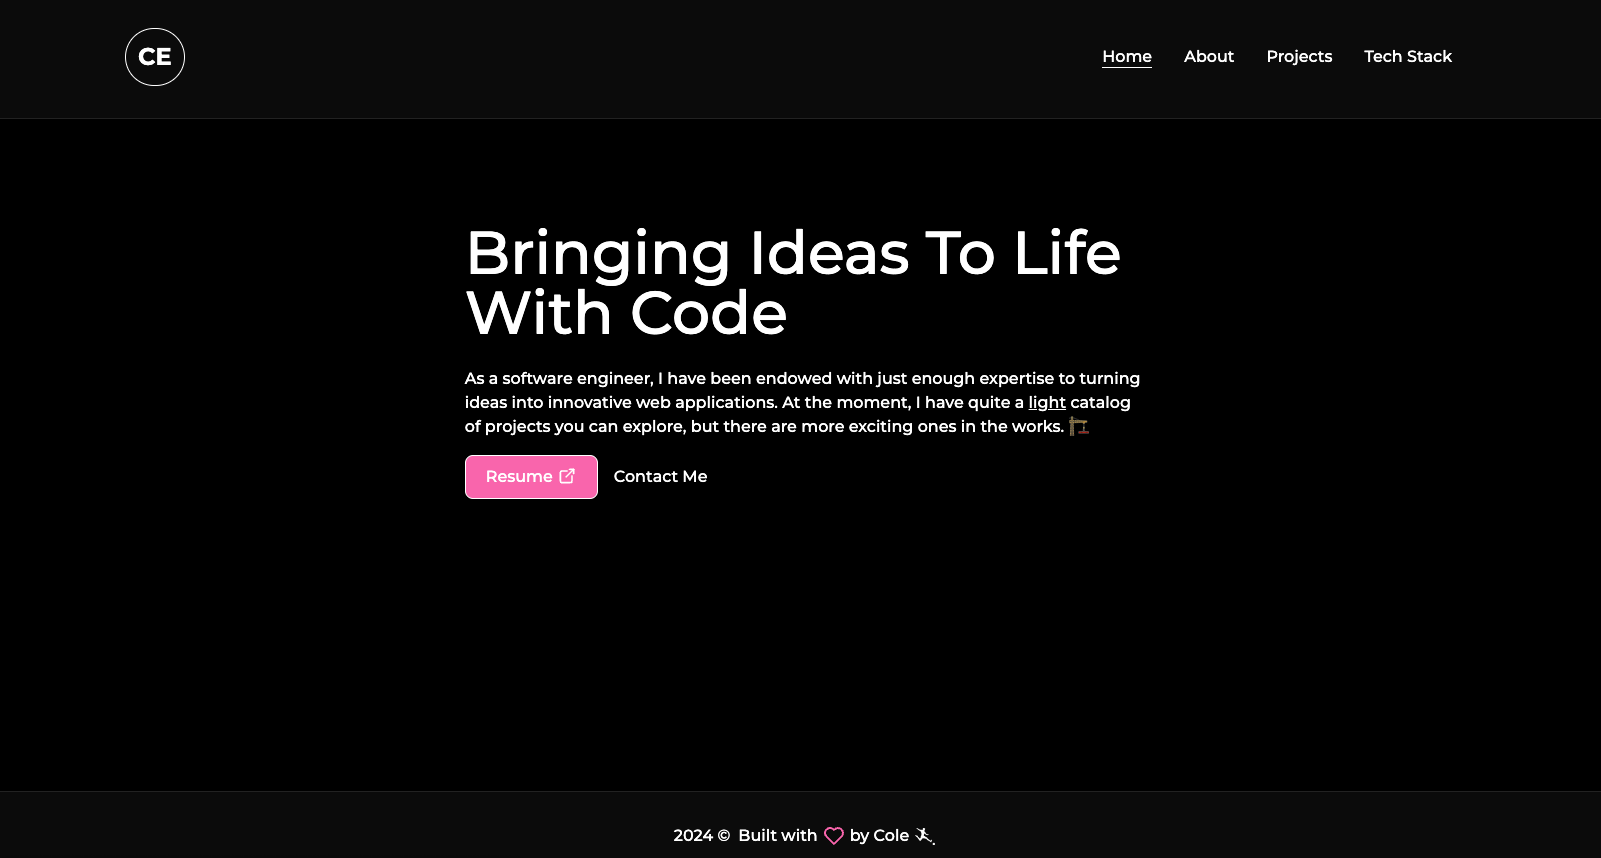
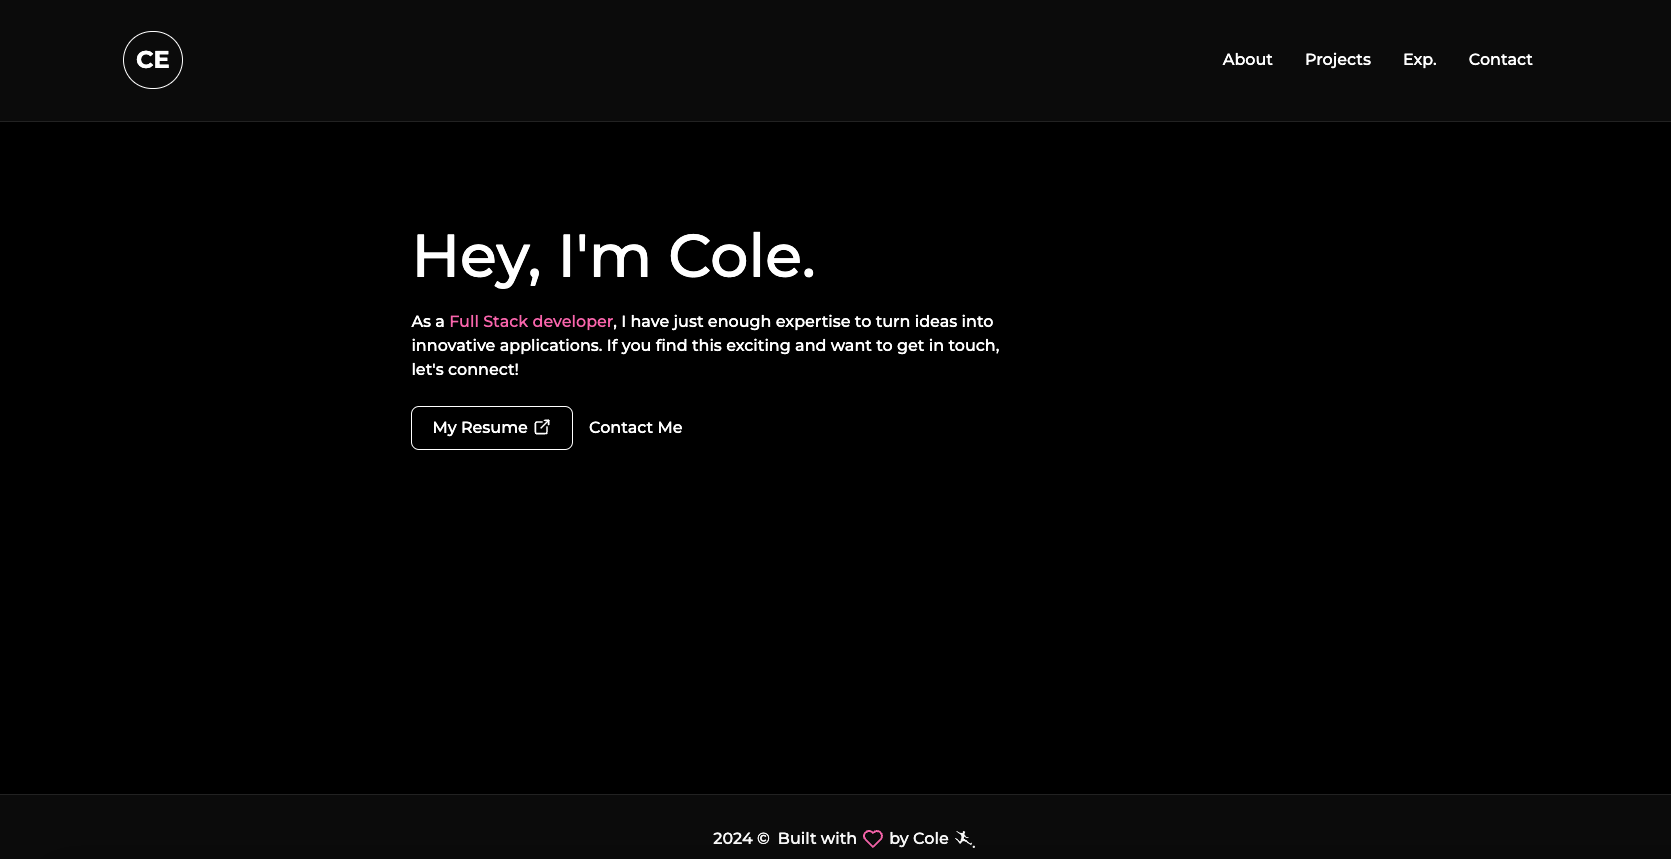
make pages responsive

diff --git a/src/app/projects/page.tsx b/src/app/projects/page.tsx
@@ -31,27 +31,29 @@ type ProjectType = {
 }
 
 const ProjectItem = ({ name, image, link, description, stack, imageAlt }: ProjectType) => {
-  const borderLineStyle =
+  const bottomBorderAnimationClass =
     "after:absolute after:bottom-0 after:left-0 after:h-1 after:w-full after:scale-0 after:rounded-bl-lg after:rounded-br-lg after:bg-white after:transition-all after:duration-300 after:ease-out after:content-[''] hover:after:scale-100"
   return (
     <article
-      className={`group relative z-10 flex flex-col items-center rounded-lg border border-transparent px-5 py-4 transition-colors  hover:border-gray-300 hover:bg-gray-100 hover:dark:border-neutral-700 hover:dark:bg-neutral-800/30 ${borderLineStyle}`}
+      className={`group relative z-10 flex flex-col items-center rounded-lg border border-transparent px-5 py-4 transition-colors hover:border-gray-300 hover:bg-gray-100 hover:dark:border-neutral-700 hover:dark:bg-neutral-800/30 ${bottomBorderAnimationClass}`}
     >
-      <div className={"h-[160px] w-[280px]"}>
+      <div className={"h-[160px] w-[280px] border border-gray-300 lg:mr-auto dark:border-neutral-800"}>
         <Image className={"h-full w-full"} src={image} alt={imageAlt} />
       </div>
-      <h2 className="my-3 w-full font-semibold capitalize lg:text-left">{name}</h2>
-      <div className={"mb-3 max-w-[30ch]"}>
-        <p className="text-balance text-sm opacity-50">{description}</p>
-        <p className={"mt-2 font-bold"}>
+      <h2 className="my-3 w-full text-center font-semibold capitalize lg:text-left">{name}</h2>
+      <div className={"mb-6 flex w-full flex-col items-center lg:items-start"}>
+        <p className="line-clamp-3 max-w-[30ch] text-ellipsis text-balance text-sm opacity-50">{description}</p>
+        <p className={"mt-2 max-w-[30ch] text-balance font-bold"}>
           Stack: <span className={"text-sm italic text-white/65"}>{stack}</span>
         </p>
       </div>
-      <ButtonLink link={link} className="mb-4 mt-auto w-fit items-center gap-1 text-base font-semibold transition-all duration-150 ease-linear hover:px-6 lg:text-left" target="_blank" rel="noopener noreferrer">
-        <div>
-          Explore <ArrowBigRightIcon className="inline-block transition-transform group-hover:translate-x-1 motion-reduce:transform-none" size={20} />
-        </div>
-      </ButtonLink>
+      <div className={"mb-4 mt-auto flex justify-center lg:w-full lg:justify-start"}>
+        <ButtonLink link={link} className="w-fit items-center gap-1 text-base font-semibold transition-all duration-150 ease-linear hover:px-6 lg:text-left" target="_blank" rel="noopener noreferrer">
+          <div>
+            Explore <ArrowBigRightIcon className="inline-block transition-transform group-hover:translate-x-1 motion-reduce:transform-none" size={20} />
+          </div>
+        </ButtonLink>
+      </div>
     </article>
   )
 }
@@ -62,19 +64,10 @@ const Projects = (props: Props) => {
       id: "delight",
       name: "Delight",
       description: "I contributed in a team of brilliant minds to build a Data Product Management SaaS application.",
-      stack: "Vue, Typescript, TailwindCSS + PrimeVue, Fastify, PostgreSQL.",
+      stack: "Vue, Typescript, TailwindCSS, PrimeVue, Fastify, PostgreSQL.",
       image: delight,
       imageAlt: "The details page of a data product in a SaaS application by www.mindfuel.ai called 'Delight'.",
       link: "https://mindfuel.ai/solution/delight",
-    },
-    {
-      id: "personal-portfolio",
-      name: "Portfolio",
-      description: "A personal portfolio built using Next.js",
-      stack: "React, Next.js, Typescript",
-      image: portfolioHomePage,
-      imageAlt: "portfolio home page",
-      link: "https://github.com/colenocks/portfolio_2",
     },
     {
       id: "hoops",
@@ -88,11 +81,20 @@ const Projects = (props: Props) => {
     {
       id: "cyob",
       name: "Cycle of benefits",
-      description: "A waste management crowdsourcing platform of environmentally related projects publicly available for interested persons to work on and gain rewards.",
+      description: "A waste management crowdsourcing platform of environment based projects publicly available for interested persons to work on and gain rewards.",
       stack: "HTML, CSS, JavaScript, Node, Express, Amazon RDS, Amazon EC2, SQL",
       image: cyob,
       imageAlt: "Tictactoe image",
       link: "https://github.com/colenocks/cycle_of_benefits",
+    },
+    {
+      id: "personal-portfolio",
+      name: "Portfolio",
+      description: "A personal portfolio built using Next.js",
+      stack: "Next.js, Typescript.",
+      image: portfolioHomePage,
+      imageAlt: "portfolio home page",
+      link: "https://github.com/colenocks/portfolio_2",
     },
     {
       id: "snakerace",
@@ -116,11 +118,9 @@ const Projects = (props: Props) => {
 
   return (
     <BaseLayout>
-      <AnimatedText text="Effort precedes talent." className="mb-12 text-center" />
-      <p className="mb-8 w-[70%] text-base font-medium text-white">
-        At the moment, I have quite a <span className={"underline"}>light</span> catalog of projects you can explore, but there are more exciting ones in the works. 🏗
-      </p>
-      <div className="grid gap-4 text-center lg:mb-0 lg:w-full lg:max-w-5xl lg:grid-cols-3 lg:text-left">
+      <AnimatedText text="Effort beats talent." className="text-center" />
+      <p className="my-8 w-2/3 text-center text-base font-medium text-white lg:w-[80%]">You can explore some of the projects I&#39;ve worked on. There are more in the works 🏗</p>
+      <div className="grid gap-4 text-center lg:w-[80%] lg:max-w-5xl lg:grid-cols-2 lg:text-left xl:w-full xl:grid-cols-3">
         {projectList.map((project) => {
           return <ProjectItem {...project} key={project.id} />
         })}

diff --git a/src/app/about/page.tsx b/src/app/about/page.tsx
@@ -13,20 +13,22 @@ export const metadata: Metadata = {
 
 const about = () => {
   const paragraphs = [
-    { id: "1", text: "I'm Coleman Enocks, a Full Stack developer with 3+ years of experience in the field. I specialize in frontend, primarily Vue (and React), but love building with whatever tools are right for the job." },
-    // {id: "2", text: `I work brilliantly in a team setup and there's no doubt that I bring committment and determination to ensure the excellence of the project or product. I look forward to the opportunity to working with you on your next project.`},
-    { id: "2", text: "My experience & educational background has endowed me with strong problem solving, analytical and attention to details skills to model and develop standards-compliant websites and applications using modern technologies." },
-    { id: "3", text: `When I'm not working, I play football on a semi-professional level - an exciting way to achieve the necessary balance. I am your friendly neighbourhood Programmer by Day and Footballer by night.` },
-    { id: "4", text: "I'm actively looking for new positions where I can translate my love for code into beautiful applications. If you think you've got an opening suitable for me, you can reach out for a chat or coffee 🤗" },
+    { id: "1", text: "I'm Coleman Enocks, a Full Stack Developer with over 3 years of experience in the field. I specialize in frontend, primarily Vue (and React), but love building with whatever tools are required for the job." },
+    /* {id: "2", text: `I work brilliantly in a team setup and there's no doubt that I bring committment and determination to ensure the excellence of the project or product. I look forward to the opportunity to working with you on your next project.
+    I am your friendly neighbourhood Programmer by Day and Footballer by night.`},
+    */
+    { id: "2", text: "My experience & educational background has endowed me with the skills to model and develop standards-compliant websites and applications using modern technologies." },
+    { id: "3", text: "When I'm not working, I play football on a semi-professional level - an exciting way to achieve the necessary balance." },
+    { id: "4", text: "I'm actively looking for new positions where I can translate my love for code into beautiful applications. If you think you've got an opening suitable for me, you can reach out for a chat or virtual coffee." },
   ]
 
   return (
-    <BaseLayout className={"space-y-20"}>
-      <div>
-        <AnimatedText text="About." />
-        <div className={"flex items-center gap-12"}>
-          <div className={"mt-4 w-1/2"}>
-            <div className={"flex flex-col gap-y-6"}>
+    <BaseLayout>
+      <div className={"w-[80%]"}>
+        <AnimatedText text="About." className={"text-center lg:text-left"} />
+        <div className={"flex items-center gap-6"}>
+          <div className={"mt-4 w-full text-base font-medium text-white xl:w-[70%]"}>
+            <div className={"flex flex-col gap-y-6 text-center lg:text-left"}>
               {paragraphs.map((paragraph) => {
                 return (
                   <p className={"font-medium"} key={paragraph.id}>
@@ -35,7 +37,7 @@ const about = () => {
                 )
               })}
             </div>
-            <div className={"my-6 flex items-center gap-x-4 font-medium "}>
+            <div className={"my-6 flex items-center justify-center gap-x-4 font-medium lg:justify-start "}>
               <div className="flex items-center gap-x-4">
                 <Link href={"https://linkedin.com/in/coleman-enocks"}>
                   <BrandLinkedinIcon className="scale:100 cursor-pointer transition-all ease-linear hover:scale-125 hover:text-pink-400" size={36} stroke={1.5} />
@@ -50,9 +52,9 @@ const about = () => {
             </div>
           </div>
 
-          <div className={"flex w-1/2 items-start"}>
-            <div className={"w-64 bg-black p-8 lg:-mt-20"}>
-              <Image src={aboutMe} alt="Coleman Enocks" className={"h-auto w-full rounded-full "} />
+          <div className={"hidden items-start justify-start xl:flex"}>
+            <div className={"w-64 bg-black p-8 lg:-mt-24"}>
+              <Image src={aboutMe} alt="Coleman Enocks" className={"h-auto w-full rounded-full "} loading="lazy" />
             </div>
           </div>
         </div>

diff --git a/src/components/Footer.tsx b/src/components/Footer.tsx
@@ -7,7 +7,7 @@ const Footer = ({ className = "" }) => {
   const year = new Date().getFullYear()
   return (
     <footer
-      className={`absolute bottom-0 flex w-full items-center justify-center gap-2 border-t border-gray-300 bg-gradient-to-b from-zinc-200 px-32 py-8 font-medium text-white backdrop-blur-2xl dark:border-neutral-800 dark:bg-zinc-800/30 dark:from-inherit lg:bg-gray-200 lg:dark:bg-zinc-800/30 ${className}`}
+      className={`absolute bottom-0 flex w-full items-center justify-center gap-2 border-t border-gray-300 bg-gradient-to-b from-zinc-200 px-32 py-8 font-medium text-white backdrop-blur-2xl lg:bg-gray-200 dark:border-neutral-800 dark:bg-zinc-800/30 dark:from-inherit lg:dark:bg-zinc-800/30 ${className}`}
     >
       <div>{year} &copy;</div>
       <div className={"flex"}>
@@ -17,7 +17,12 @@ const Footer = ({ className = "" }) => {
         </span>
         by Cole{" "}
         <div className="ml-1.5 inline-block w-5 pt-1">
-          <Image src={silhouette} alt='Image by Mohamed Hassan from Pixabay - "https://pixabay.com//?utm_source=link-attribution&utm_medium=referral&utm_campaign=image&utm_content=3714836"' className={"h-auto w-full invert-0 dark:invert"} />
+          <Image
+            src={silhouette}
+            alt='Image by Mohamed Hassan from Pixabay - "https://pixabay.com//?utm_source=link-attribution&utm_medium=referral&utm_campaign=image&utm_content=3714836"'
+            className={"h-auto w-full invert-0 dark:invert"}
+            loading="lazy"
+          />
         </div>
       </div>
     </footer>

diff --git a/src/app/page.tsx b/src/app/page.tsx
@@ -7,13 +7,15 @@ import Link from "next/link"
 export default function Home() {
   return (
     <BaseLayout>
-      <div className="mx-auto w-1/2">
-        <AnimatedText text="Hey, I'm Cole." />
-        <p className="my-4 text-base font-medium text-white">
-          As a <span className="text-pink-400">Full Stack developer</span>, I have just enough expertise to turn ideas into innovative applications. If you find this exciting and want to get in touch, let&#39;s connect!.
-        </p>
+      <div className="mx-auto w-full text-center md:w-[70%] lg:text-left xl:w-[60%]">
+        <div className="flex flex-col items-center ">
+          <AnimatedText text="Hey, I'm Cole." className={"text-center lg:text-left"} />
+          <p className="my-4 mr-auto w-full text-base font-medium text-white lg:w-[90%] xl:w-[70%]">
+            As a <span className="text-pink-400">Full Stack developer</span>, I have just enough expertise to turn ideas into innovative applications. If you find this exciting and want to get in touch, let&#39;s connect!
+          </p>
+        </div>
 
-        <div className="mt-2 flex items-center gap-4 self-start">
+        <div className="mt-2 flex flex-col items-center justify-center gap-4 self-start lg:flex-row lg:justify-start">
           <ButtonLink link="https://drive.google.com/file/d/146rG5DCqhHxyoR9-rXVntkcZbXU88WIN/view?usp=sharing" target={"_blank"} downloadable>
             My Resume <ExternalLinkIcon className={"mb-0.5 ml-1 w-5"} />
           </ButtonLink>

diff --git a/src/app/contact/page.tsx b/src/app/contact/page.tsx
@@ -15,12 +15,12 @@ const Contact = (props: Props) => {
   return (
     <BaseLayout>
       <AnimatedText text="Get in touch." className="mb-6 text-center" />
-      <p className="mb-2 text-center text-base font-medium text-white">If you want to connect, shoot me an email . You can also find me on the links below.</p>
+      <p className="mb-2 text-center text-base font-medium text-white">If you want to work with me, shoot me an email . You can also reach out on any of the links.</p>
       <Link href="mailto:enockscoleman@gmail.com" target={"_blank"} className={"flex cursor-pointer items-center gap-x-2 py-1 text-xl font-bold hover:text-pink-400"}>
         <MailIcon />
         enockscoleman@gmail.com
       </Link>
-      <div className="mt-8 flex items-center gap-x-4">
+      <div className="mt-4 flex items-center gap-x-4">
         <Link href={"https://linkedin.com/in/coleman-enocks"}>
           <BrandLinkedinIcon className="scale:100 cursor-pointer transition-all ease-linear hover:scale-125 hover:text-pink-400" size={36} stroke={1.5} />
         </Link>

diff --git a/src/app/experience/page.tsx b/src/app/experience/page.tsx
@@ -29,14 +29,14 @@ const Experience = (props: Props) => {
 
   return (
     <BaseLayout>
-      <AnimatedText className={"mb-8 text-center"} text={"Experience."} />
-      <div className={"flex w-[80%] items-start gap-3"}>
+      <AnimatedText className={"mb-8 text-center"} text={"Experience, Expertise."} />
+      <div className={"mb-10 flex w-full flex-col-reverse items-start gap-3 lg:mb-0 lg:flex-row xl:w-[70%]"}>
         <div className={"mt-20"}>
-          <h2 className={"mb-6 flex items-center gap-x-3 text-2xl font-medium"}>
+          <h2 className={"mb-6 flex items-center justify-center gap-x-3 text-2xl font-medium"}>
             <CodeIcon className={"text-pink-400"} size={48} />
             Tech Stack
           </h2>
-          <div className={"flex flex-wrap items-center gap-3 text-center"}>
+          <div className={"flex flex-wrap items-center justify-center gap-3 text-center"}>
             {skills.map((skill, index: number) => {
               return (
                 <motion.span

diff --git a/src/components/Navbar.tsx b/src/components/Navbar.tsx
@@ -27,7 +27,7 @@ const CustomLink = ({ href, title, className = "" }: CustomLinkProps) => {
 
 const NavBar = () => {
   return (
-    <header className="flex w-full items-center justify-between border-b border-gray-300 bg-gradient-to-b from-zinc-200 px-32 py-8 font-medium text-white backdrop-blur-2xl dark:border-neutral-800 dark:bg-zinc-800/30 dark:from-inherit lg:dark:bg-zinc-800/30">
+    <header className="flex w-full flex-col items-center justify-center gap-6 border-b border-gray-300 bg-gradient-to-b from-zinc-200 p-10 font-medium text-white backdrop-blur-2xl lg:flex-row lg:justify-between lg:gap-5 lg:px-32 lg:py-8  dark:border-neutral-800 dark:bg-zinc-800/30 dark:from-inherit lg:dark:bg-zinc-800/30">
       <Logo />
       <nav className="">
         <CustomLink href="/about" title="About" className="ml-8" />

diff --git a/src/components/BaseLayout.tsx b/src/components/BaseLayout.tsx
@@ -12,7 +12,7 @@ const BaseLayout = ({
   return (
     <main className={"relative min-h-screen pb-16"}>
       <NavBar />
-      <div className={`min-h-screen-minus-header-footer flex flex-col items-center justify-between px-32 py-24 ${className}`}>{children}</div>
+      <div className={`min-h-screen-minus-header-footer flex flex-col items-center justify-between p-10 lg:px-32 lg:py-24 ${className}`}>{children}</div>
       <Footer className={"absolute bottom-0"} />
     </main>
   )
